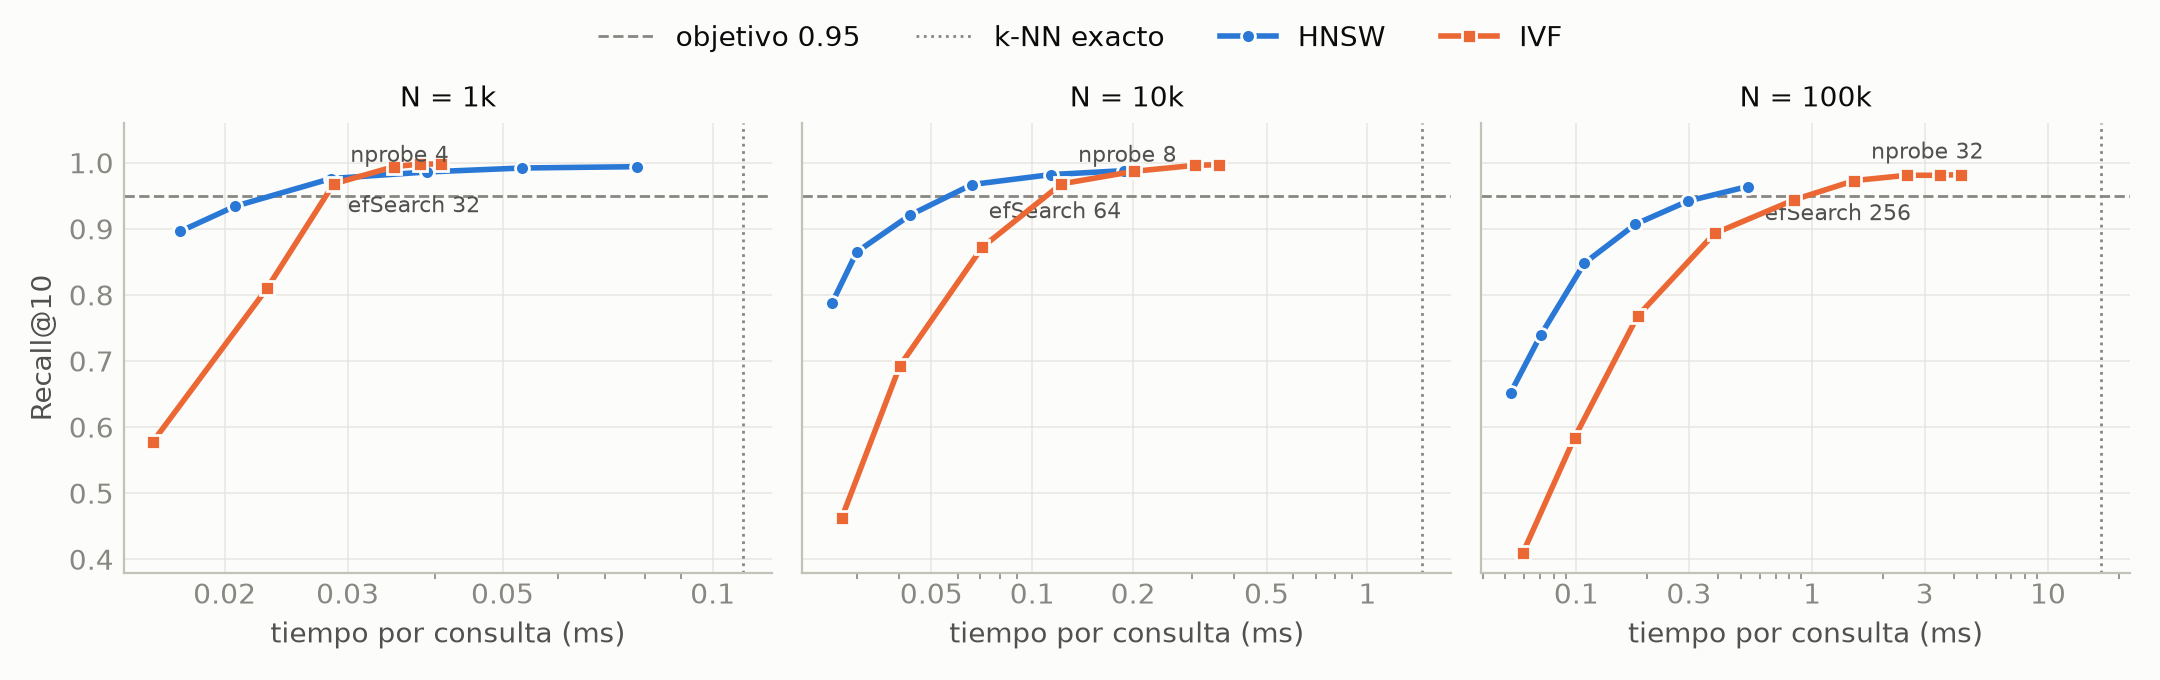
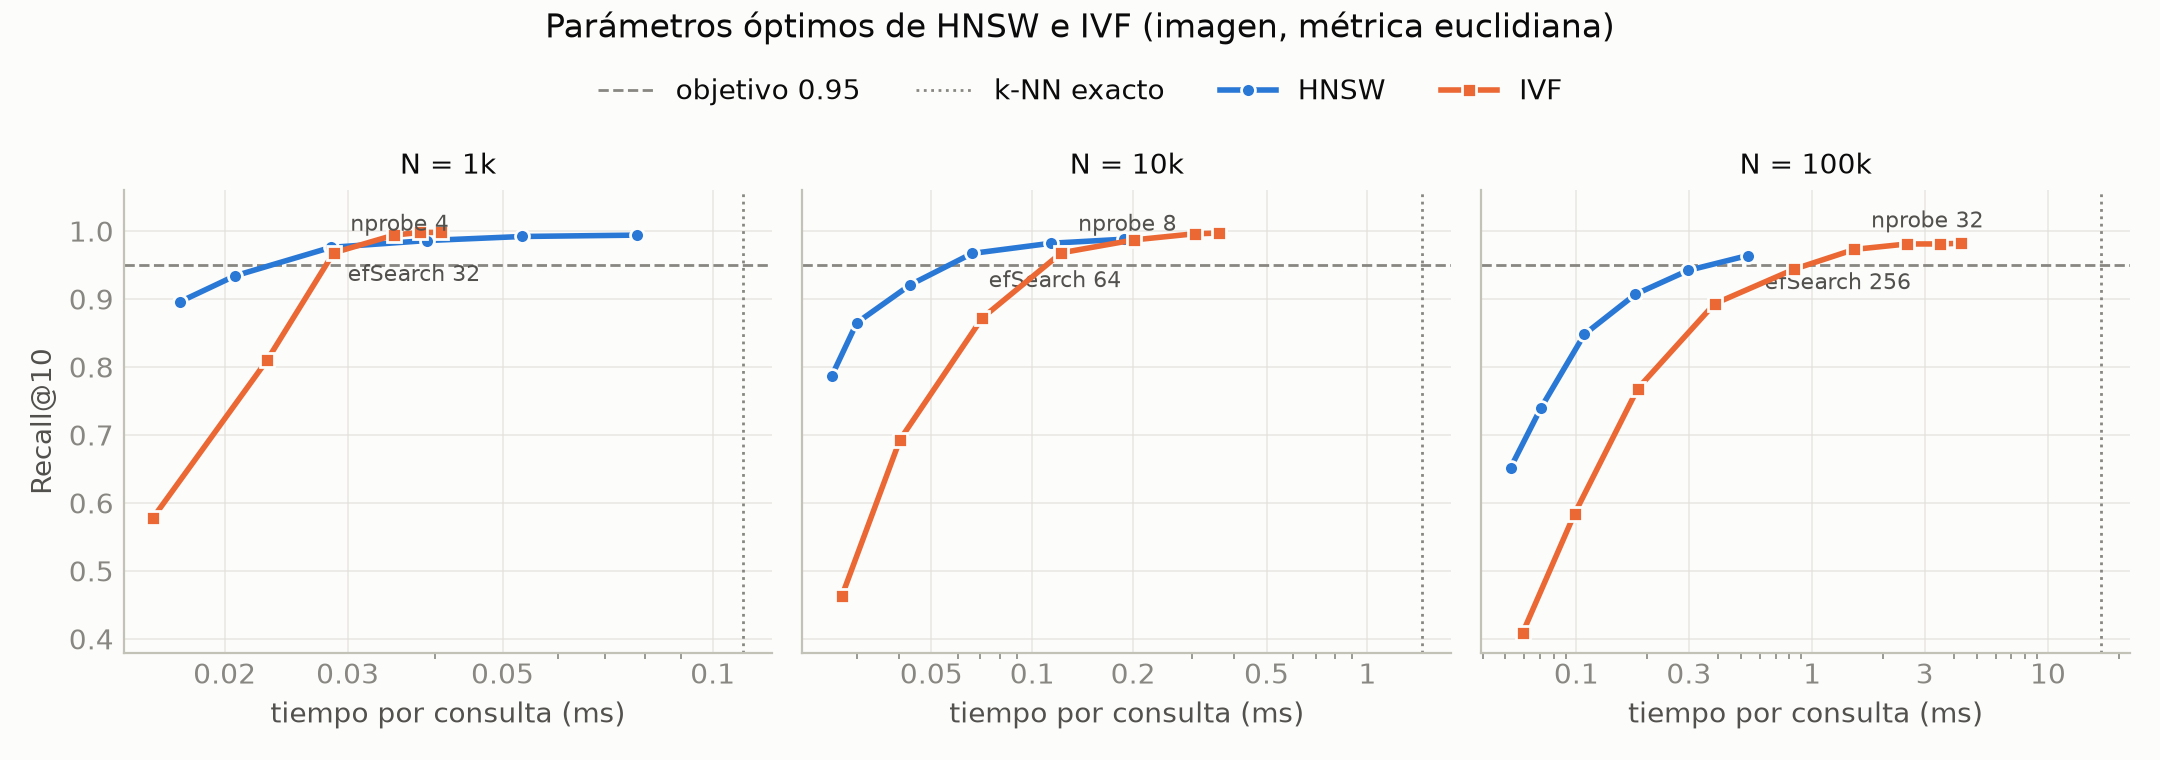
test(bench): titulos en los graficos de parametros vectoriales

diff --git a/bench/plots_vector_params.py b/bench/plots_vector_params.py
@@ -13,6 +13,7 @@ import yaml
 BENCH = os.path.dirname(os.path.abspath(__file__))
 ENTRADA = os.path.join(BENCH, "results", "vector_params.csv")
 
+METRICAS = {"cosine": "coseno", "euclidean": "euclidiana"}
 INDICES = (("HNSW", "efSearch", "#2a78d6", "o"), ("IVF", "nprobe", "#eb6834", "s"))
 INK_PRIMARY = "#0b0b0b"
 INK_SECONDARY = "#52514e"
@@ -44,6 +45,7 @@ def _tamano(n: int) -> str:
 
 
 def cargar(ruta):
+    tipo = ""
     datos = defaultdict(lambda: defaultdict(lambda: defaultdict(list)))
     with open(ruta, newline="") as f:
         for fila in csv.DictReader(f):
@@ -52,11 +54,12 @@ def cargar(ruta):
             fila["tiempo_ms"] = float(fila["tiempo_ms"])
             fila["valor"] = int(fila["valor"]) if fila["valor"] else None
             datos[fila["metrica"]][fila["n"]][fila["indice"]].append(fila)
+            tipo = fila["datos"].split("_")[0]
     for por_n in datos.values():
         for por_indice in por_n.values():
             for filas in por_indice.values():
                 filas.sort(key=lambda f: f["valor"] or 0)
-    return datos
+    return tipo, datos
 
 
 def _ms(v, _pos=None) -> str:
@@ -80,9 +83,9 @@ def _eje_tiempo(ax, tiempos):
     ax.xaxis.set_minor_formatter(mticker.NullFormatter())
 
 
-def graficar(metrica, por_n, objetivo, salida):
+def graficar(tipo, metrica, por_n, objetivo, salida):
     tamanos = sorted(por_n)
-    fig, ejes = plt.subplots(1, len(tamanos), figsize=(3.6 * len(tamanos), 3.4), sharey=True, squeeze=False)
+    fig, ejes = plt.subplots(1, len(tamanos), figsize=(3.6 * len(tamanos), 3.8), sharey=True, squeeze=False)
     for ax, n in zip(ejes[0], tamanos):
         _estilo(ax)
         _eje_tiempo(ax, [f["tiempo_ms"] for filas in por_n[n].values() for f in filas])
@@ -111,9 +114,11 @@ def graficar(metrica, por_n, objetivo, salida):
         ax.set_xlabel("tiempo por consulta (ms)")
     ejes[0][0].set_ylabel("Recall@10")
     ejes[0][0].set_ylim(top=1.06)
+    fig.tight_layout(rect=(0, 0, 1, 0.84))
+    fig.suptitle(f"Parámetros óptimos de HNSW e IVF ({tipo}, métrica {METRICAS.get(metrica, metrica)})",
+                 fontsize=12, y=0.985)
     asas, etiquetas = ejes[0][0].get_legend_handles_labels()
-    fig.legend(asas, etiquetas, loc="upper center", ncol=len(asas), bbox_to_anchor=(0.5, 1.0))
-    fig.tight_layout(rect=(0, 0, 1, 0.92))
+    fig.legend(asas, etiquetas, loc="upper center", ncol=len(asas), bbox_to_anchor=(0.5, 0.93))
     fig.savefig(salida, dpi=200)
     plt.close(fig)
 
@@ -126,9 +131,10 @@ def main():
     objetivo = yaml.safe_load(open(os.path.join(BENCH, "config.yaml")))["vector"]["recall_objetivo"]
     os.makedirs(args.salida, exist_ok=True)
     nombre = os.path.splitext(os.path.basename(args.entrada))[0]
-    for metrica, por_n in cargar(args.entrada).items():
+    tipo, datos = cargar(args.entrada)
+    for metrica, por_n in datos.items():
         ruta = os.path.join(args.salida, f"{nombre}_{metrica}.png")
-        graficar(metrica, por_n, objetivo, ruta)
+        graficar(tipo, metrica, por_n, objetivo, ruta)
         print(ruta)
 
 
